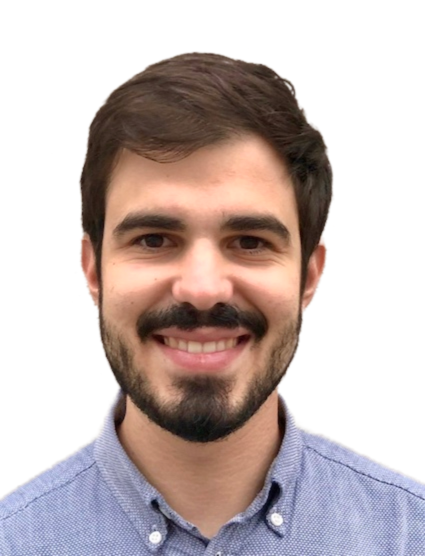
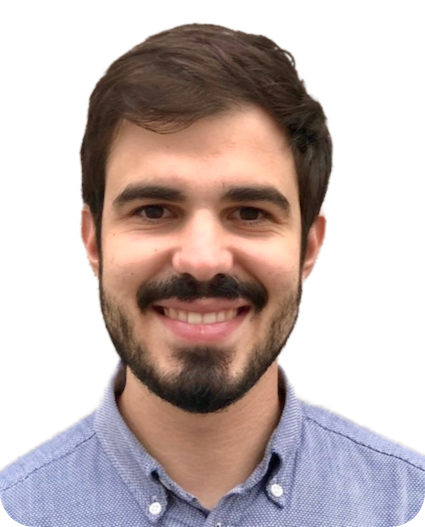
Index modified

Changed region(s): [[0.0, 0.0304, 1.0, 1.0]]

diff --git a/index.html b/index.html
@@ -32,7 +32,7 @@ MathJax.Hub.Config({
 <h1>Giacomo Baggio</h1>
 </div>
 <table class="imgtable"><tr><td>
-<img src="./images/Myself6.png" alt="Myself" width="170px" height="210.8" />&nbsp;</td>
+<img src="./images/Myself.png" alt="Myself" width="170px" height="210.8" />&nbsp;</td>
 <td align="left"><p><b>Assistant Professor</b> <br /></p>
 <p><a href="https://www.dei.unipd.it" target=&ldquo;blank&rdquo;>Department of Information Engineering</a>  <br />
 <a href="https://www.unipd.it" target=&ldquo;blank&rdquo;>University of Padova</a> <br />
@@ -52,7 +52,7 @@ gtag('config', 'UA-120269054-1');
 </script></p>
 <div id="footer">
 <div id="footer-text">
-Page generated 2021-02-20 22:05:41 CET, by <a href="https://github.com/wsshin/jemdoc_mathjax" target="blank">jemdoc+MathJax</a>.
+Page generated 2021-02-22 10:30:11 CET, by <a href="https://github.com/wsshin/jemdoc_mathjax" target="blank">jemdoc+MathJax</a>.
 (<a href="index.jemdoc">source</a>)
 </div>
 </div>
